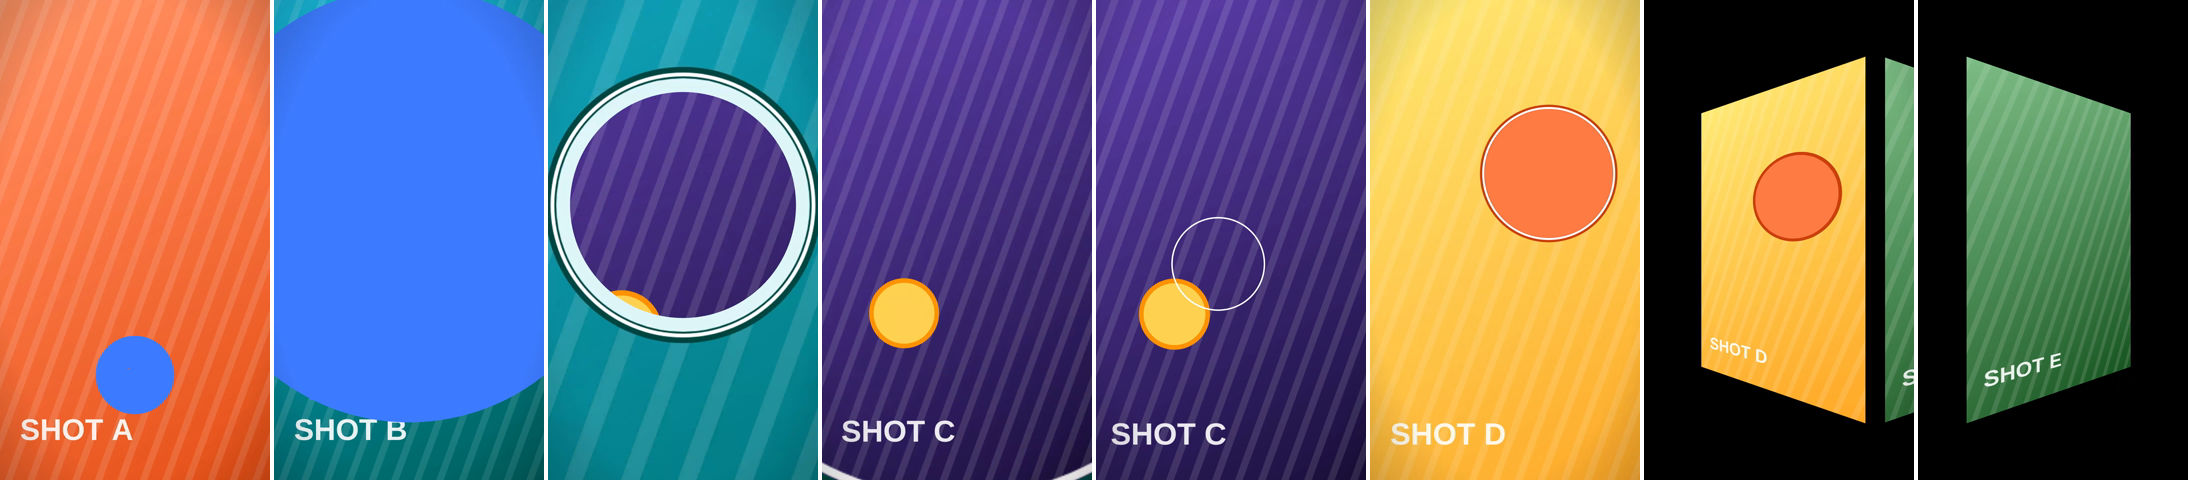
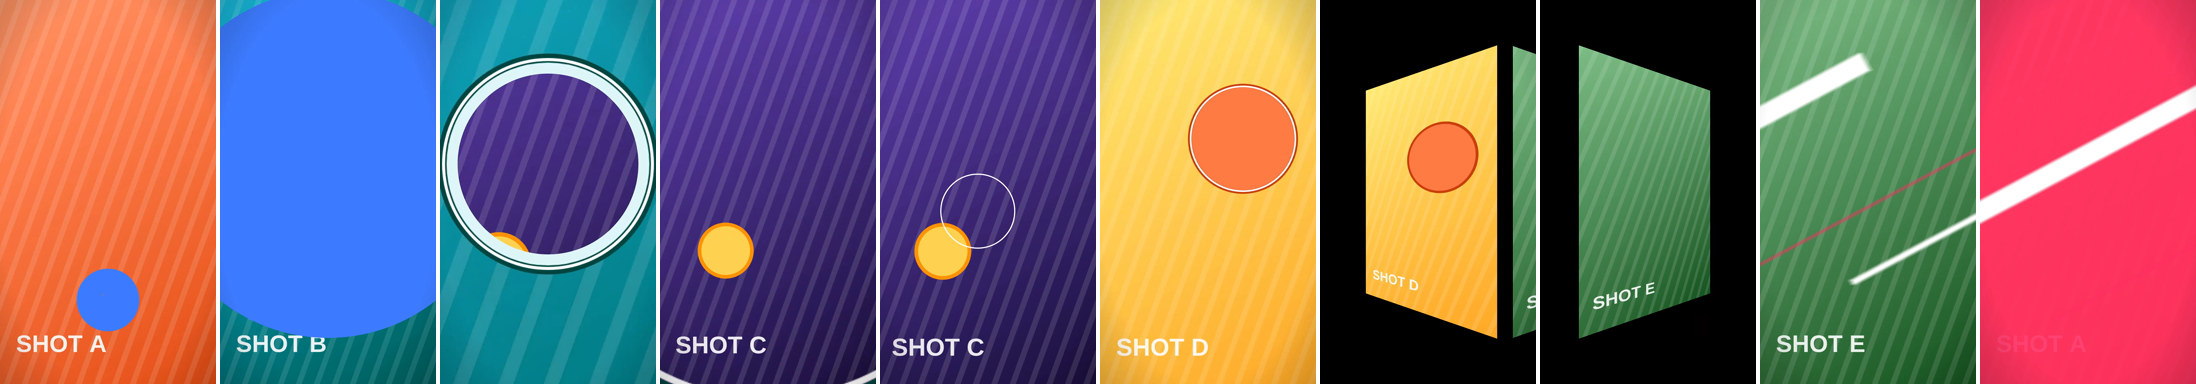
feat(skill): 플래시 전환(transition-flash-streak) 추가
빠른 사선 선 4가닥 + 브랜드 색 번쩍임(6프레임)으로 컷. 엔진 3.0.7 렌더로 값 확인,
samples/transitions 11초로 갱신, 갤러리 항목·전환 표 반영.

Claude-Session: https://claude.ai/code/session_01YK5oS4z5UFzZ1MLrykh59R

diff --git a/plugin/skills/admaker/gallery/prompts/transitions-four-ways.md b/plugin/skills/admaker/gallery/prompts/transitions-four-ways.md
@@ -1,10 +1,10 @@
-# 소재 5컷을 잇는 전환 4종
+# 소재 컷을 잇는 전환 5종
 
 - **카테고리:** transition
-- **길이·비율:** 9초, 9:16, 30fps
+- **길이·비율:** 11초, 9:16, 30fps
 - **엔진:** @admaker/engine 3.0.7
-- **샷 카드:** `transition-cover-flood`, `transition-zoom-through`, `transition-match-cut`, `transition-footage-card`
-- **기법:** cover, zoom-through, match-cut, dimension, keyframes, mask-reveal
+- **샷 카드:** `transition-cover-flood`, `transition-zoom-through`, `transition-match-cut`, `transition-footage-card`, `transition-flash-streak`
+- **기법:** cover, zoom-through, match-cut, dimension, keyframes, mask-reveal, swipe, flash
 - **앱 불러오기:** unverified
 
 ![미리보기](https://github.com/kingsae1/claude-admaker-skills/blob/main/samples/transitions/transitions_sample.gif)
@@ -12,12 +12,12 @@
 ## Prompt
 
 ```text
-A 9-second 9:16 reel that joins five footage clips with four different transitions, all built inside the graphic language and never as crossfades. 1) Cover: a small accent dot near the bottom grows into a circle that floods the frame, the footage swaps under it, and the circle shrinks into the round window of the next clip. 2) Zoom-through: the camera pushes into that window while the next clip opens inside it and fills the frame. 3) Match cut: the frame pushes left with motion blur at the cut, and a white ring around the yellow circle lands exactly on the orange circle of the next clip. 4) Dimension shift: the clip shrinks into a tilted card and slides away while the next card swings in and flattens to full frame. Keep the footage at full clarity, no dim or haze.
+An 11-second 9:16 reel that joins six footage cuts with five different transitions, all built inside the graphic language and never as crossfades. 1) Cover: a small accent dot near the bottom grows into a circle that floods the frame, the footage swaps under it, and the circle shrinks into the round window of the next clip. 2) Zoom-through: the camera pushes into that window while the next clip opens inside it and fills the frame. 3) Match cut: the frame pushes left with motion blur at the cut, and a white ring around the yellow circle lands exactly on the orange circle of the next clip. 4) Dimension shift: the clip shrinks into a tilted card and slides away while the next card swings in and flattens to full frame. 5) Flash: four fast diagonal streaks in white and brand pink cross the frame, and as the last thick one passes the screen flashes pink for six frames while the footage cuts. Keep the footage at full clarity, no dim or haze.
 ```
 
 ## 결과에서 볼 것
 
-커버는 컷 앞뒤 2프레임만 꽉 찬 단색, 줌 스루는 구멍이 늘 창 테두리 안쪽, 매치 컷은 컷 순간 링과 주황 원이 같은 픽셀, 카드 뒤는 브랜드 배경색.
+커버는 컷 앞뒤 2프레임만 꽉 찬 단색, 줌 스루는 구멍이 늘 창 테두리 안쪽, 매치 컷은 컷 순간 링과 주황 원이 같은 픽셀, 카드 뒤는 브랜드 배경색, 플래시는 꽉 찬 색이 0.2초 안.
 
 ## 다시 만들기
 

diff --git a/plugin/skills/admaker/references/shots/transition-flash-streak.md b/plugin/skills/admaker/references/shots/transition-flash-streak.md
@@ -1,0 +1,38 @@
+---
+name: transition-flash-streak
+한 줄: 빠른 선 몇 가닥이 사선으로 화면을 가로지르고, 마지막 선이 지나가는 순간 화면이 브랜드 색으로 번쩍이며 소재가 바뀜
+슬롯: 전환 (훅·드롭)
+에너지: 최고
+길이: 0.3–0.4초 (선 0.18초 × 시차 + 번쩍임 6프레임)
+엔진: Shape rectangle keyframes(x + motionBlur), 번쩍임 Shape opacity keyframes, `style.blendMode`. `templates/shots/transition-flash-streak.mjs`
+검증: 엔진 3.0.7 렌더 하니스(Preview 스틸 + Exporter mp4), `samples/transitions` 9.5초
+---
+
+## 의도
+플래시 전환입니다. 스와이프(선이 화면 앞을 지나감)와 커버(화면을 덮음)를 아주 짧게 합친 것으로, 음악 드롭이나 훅 직후 에너지를 한 번에 올립니다. 번쩍이는 색이 브랜드 색이라 "흰 섬광"보다 브랜드가 남습니다.
+
+## 동작 핵심
+- 선 4가닥(굵기 14·30·8·64px, 마지막이 가장 굵음), 기울기 −28°, 각자 0.18초에 화면을 가로지름. 2프레임씩 시차, **마지막 선이 화면 가운데를 지나는 순간 = 컷**.
+- 선 색은 흰색과 브랜드 색을 번갈아, 브랜드 색 선은 `blendMode: "add"`로 섞어 어두운 소재에서도 묻히지 않게 합니다. 이동 중 내내 모션 블러(Q14).
+- 번쩍임: 프레임 가득 Shape, 컷 2프레임 전 0 → 컷에 0.9 → 4프레임 뒤 0. 바닥 소재는 최고점에서 바뀝니다.
+- 마지막 굵은 선은 번쩍임 위로 계속 지나가서, 다음 장면 첫 3–4프레임에 잔상이 남습니다.
+
+## 파라미터 표
+| 항목 | 값 | 조절 감각 |
+|---|---|---|
+| sweep | 0.18초 | 0.25초 넘으면 "빠른 선"이 아니라 띠가 지나가는 느낌 |
+| count / gap | 4가닥 / 2프레임 | 6가닥 넘으면 화면이 지저분함 |
+| angle | −28° | 브랜드 그래픽의 사선 각도가 있으면 그 값 |
+| flash | 0.9, 2프레임 올라가고 4프레임 내려감 | 0.6 아래면 번쩍임이 안 읽힘. 꽉 찬 시간은 0.2초 안 |
+| blend | `normal` | `screen`이면 소재가 그 색으로 빛나는 느낌이지만 밝은 소재에서는 거의 안 보임 |
+
+## 사운드
+선마다 아주 짧은 tick 또는 하나의 sharp whoosh, 번쩍임에 impact(드롭이면 드롭 첫 박).
+
+## 알려진 함정
+- 화면 전체 충격(R4)에 셉니다. 광고 하나에 1–2번, 흰색 번쩍임은 쓰지 않습니다(금지 목록에 흔한 항목).
+- 깜빡임에 민감한 시청자가 있으니 번쩍임을 연속 3번 이상 쓰지 않습니다(초당 3회 넘는 섬광 금지).
+- `validate.mjs`가 번쩍임 Shape에 "opacity만 바뀌는 단독 페이드 입장(R6)" △ 경고를 냅니다. 이 카드에서는 의도한 것이니 무시합니다.
+
+## 참조 구현
+`templates/shots/transition-flash-streak.mjs`. `props`: `{ at, color?, angle?, count?, sweep?, gap?, flash?, blend?, dir?, index? }`.

diff --git a/plugin/skills/admaker/references/shots/README.md b/plugin/skills/admaker/references/shots/README.md
@@ -25,6 +25,7 @@
 | [transition-cover-flood](transition-cover-flood.md) | 전환 | 중고 | 0.6–0.7초 | 앞 장면의 점이 원으로 부풀어 화면을 덮고, 다음 장면의 점으로 줄어들며 열림 |
 | [transition-zoom-through](transition-zoom-through.md) | 전환 | 중고 | 0.6–0.8초 | 소재 속 둥근 물체로 다가가면 그 안이 다음 소재로 열림 (시그니처 샷 후보) |
 | [transition-match-cut](transition-match-cut.md) | 전환 | 중 | 컷 ±0.2초 | 컷 양쪽 움직임 방향을 맞추고, 링이 다음 물체 자리에 정확히 착지 |
+| [transition-flash-streak](transition-flash-streak.md) | 전환 | 최고 | 0.3–0.4초 | 빠른 사선 몇 가닥이 지나가고 화면이 브랜드 색으로 번쩍이며 컷 (훅·드롭) |
 | [transition-footage-card](transition-footage-card.md) | 전환 | 중 | 0.9–1.1초 | 소재가 카드로 줄며 기울어 빠지고, 다음 소재 카드가 정면으로 펴짐 (2D ↔ 2.5D) |
 
 ### 전환 카드 고르는 법
@@ -34,6 +35,7 @@
 | 기법 | 쓰는 것 | 언제 |
 |---|---|---|
 | 스와이프(닦아내기) | `beat-montage-wipe`의 사선 띠, 마스크 `wipe`·`angleWipe`, 큰 글자·물체가 화면 앞을 지나가게 | 빠른 나열, 인트로·엔딩 타이틀 |
+| 플래시(스와이프 + 커버) | `transition-flash-streak` | 드롭, 훅 직후. 화면 전체 충격(R4)에 셈 |
 | 커버(덮기) | `transition-cover-flood` | 장면 성격이 바뀔 때, 화면 속 점이 있을 때 |
 | 매치 컷 | `transition-match-cut`, 생성 소재면 첫·끝 프레임을 맞춰 생성(`footage-gen.md`) | 비슷한 모양·움직임이 양쪽에 있을 때 |
 | 차원 이동(2D↔3D) | `transition-footage-card`, `hero-tilt-push`, three 어댑터(`three.md`) | 여러 소재를 넘겨 보여 줄 때 |
@@ -46,7 +48,7 @@
 
 ## 카드 형식
 
-> `map-*` 2장은 엔진 3.0.5로, `transition-*` 4장은 엔진 3.0.7로 렌더해 확인한 값입니다. 나머지 5장의 값은 shotcraft·opuscar 판례에서 옮긴 **초기값이고, admaker 엔진으로 렌더해 검증하기 전**입니다. 첫 광고를 만들면서 실제 렌더로 확인한 값으로 고치고, 고친 카드에는 `검증: <엔진 버전>`을 frontmatter에 붙입니다.
+> `map-*` 2장은 엔진 3.0.5로, `transition-*` 5장은 엔진 3.0.7로 렌더해 확인한 값입니다. 나머지 5장의 값은 shotcraft·opuscar 판례에서 옮긴 **초기값이고, admaker 엔진으로 렌더해 검증하기 전**입니다. 첫 광고를 만들면서 실제 렌더로 확인한 값으로 고치고, 고친 카드에는 `검증: <엔진 버전>`을 frontmatter에 붙입니다.
 
 새 카드는 아래 형식으로 씁니다. 실제로 렌더해 확인한 값만 파라미터 표에 적습니다.
 

diff --git a/samples/transitions/README.md b/samples/transitions/README.md
@@ -1,6 +1,6 @@
-# 전환 샘플: 소재 5컷을 잇는 전환 4종
+# 전환 샘플: 소재 컷을 잇는 전환 5종
 
-1080×1920, 9초, 30fps. `@admaker/engine` 3.0.7 렌더 하니스(Preview 스틸, 브라우저 Exporter mp4)로 렌더했습니다. 바닥 소재는 직접 만든 자리표시 영상(`make-placeholder-footage.cjs`: 그라데이션 + 둥근 물체 + SHOT 라벨)입니다.
+1080×1920, 11초, 30fps. `@admaker/engine` 3.0.7 렌더 하니스(Preview 스틸, 브라우저 Exporter mp4)로 렌더했습니다. 바닥 소재는 직접 만든 자리표시 영상(`make-placeholder-footage.cjs`: 그라데이션 + 둥근 물체 + SHOT 라벨)입니다.
 
 ![미리보기](transitions_sample.gif)
 
@@ -12,6 +12,7 @@
 | 3.3–4.0초 | 공간 전환(줌) | `transition-zoom-through` | 창을 향해 4.6배 다가가며 창 안이 다음 소재로 열림, 흰 링 |
 | 5.2–6.0초 | 매치 컷 | `transition-match-cut` | 왼쪽으로 밀리며 컷, 노란 원을 감싼 링이 다음 소재의 주황 원에 착지 |
 | 7.0–8.0초 | 차원 이동 | `transition-footage-card` | 소재가 카드로 줄며 기울어 빠지고, 다음 소재 카드가 정면으로 펴짐 |
+| 9.3–9.6초 | 플래시 | `transition-flash-streak` | 흰색·분홍 선 4가닥이 사선으로 지나가고 화면이 분홍으로 번쩍이며 컷 |
 
 ## 다시 만들기
 
@@ -32,6 +33,7 @@ node build-project.mjs --out project.import.json && node to-admaker-import.mjs p
 
 - 매치 컷 링이 다음 소재가 밀려 들어오는 0.2초 동안 물체와 어긋났습니다. 컷 순간 위치에 다음 소재의 밀림을 얹고 같은 이징으로 내려앉게 고쳤습니다.
 - 카드 전환 뒤 배경을 Shape(z 1)로 깔았더니 화면이 배경색만 나왔습니다. 렌더 하니스는 뒤 트랙을 위에 그립니다. 배경은 `settings.backgroundColor`로 바꿨습니다.
+- 플래시: 분홍 선이 초록 소재 위에서 묻혀 `blendMode: "add"`로, 번쩍임은 `screen`이 밝은 소재에서 거의 안 보여 기본을 `normal`로 바꿨습니다.
 - 카드가 기울면 x 이동이 덜 보여서 빠지는 쪽 이동을 0.95W → 1.5W로 늘렸습니다.
 
 ## 앱으로 넘길 때

diff --git a/README.md b/README.md
@@ -52,7 +52,7 @@ plugin/skills/admaker/
     └── build.sh
 samples/map/                     지도 샘플 샷 (서울 → 부산 배송, 엔진 3.0.5 렌더)
 samples/gsap-three/              GSAP 타임라인 + three.js 커스텀 씬 샘플 (엔진 3.0.7 렌더)
-samples/transitions/             소재 사이 전환 4종 샘플 (커버·줌 스루·매치 컷·카드, 엔진 3.0.7 렌더)
+samples/transitions/             소재 사이 전환 5종 샘플 (커버·줌 스루·매치 컷·카드·플래시, 엔진 3.0.7 렌더)
 samples/handwriting/             손글씨 샘플 (handwrite_in + strokeDraw, 엔진 3.0.7 렌더)
 plugin/skills/admaker/gallery/   예시 갤러리: data/ads.json + prompts/<slug>.md (예시 영상·프롬프트·쓴 기법)
 ```
@@ -68,6 +68,6 @@ plugin/skills/admaker/gallery/   예시 갤러리: data/ads.json + prompts/<slug
 ## 상태
 
 - 엔진 기준 버전: `@admaker/engine` 3.0.7 (admaker-plugin `455c950`, three 어댑터 + 씬 훅 포함), `@admaker/animation` 2.0.8
-- 렌더 하니스, `motion.mjs`의 입장·룩 스택, `map.mjs`, 지도 샷 카드 2장은 엔진 3.0.5로 렌더해 확인했습니다(`samples/map`). `gsapTimeline`과 three 커스텀 씬은 엔진 3.0.7로 렌더해 확인했습니다(`samples/gsap-three`). 전환 샷 카드 4장도 엔진 3.0.7로 렌더해 확인했습니다(`samples/transitions`). 나머지 샷 카드 5장의 값은 아직 렌더로 검증하지 않았습니다.
+- 렌더 하니스, `motion.mjs`의 입장·룩 스택, `map.mjs`, 지도 샷 카드 2장은 엔진 3.0.5로 렌더해 확인했습니다(`samples/map`). `gsapTimeline`과 three 커스텀 씬은 엔진 3.0.7로 렌더해 확인했습니다(`samples/gsap-three`). 전환 샷 카드 5장도 엔진 3.0.7로 렌더해 확인했습니다(`samples/transitions`). 나머지 샷 카드 5장의 값은 아직 렌더로 검증하지 않았습니다.
 
 라이선스: 비공개 라이선스입니다. 저작권자의 허락 없이 복제·수정·재배포할 수 없습니다([LICENSE](LICENSE)). 외부 출처 부분은 [ATTRIBUTION.md](ATTRIBUTION.md)의 원 라이선스를 따릅니다.

diff --git a/plugin/skills/admaker/references/director.md b/plugin/skills/admaker/references/director.md
@@ -101,7 +101,7 @@
 
 - 서로 다른 카메라 무브 3종 이상(15초 기준). 2D에도 카메라가 있습니다: 푸시, 풀, 패럴랙스, 포커스 이동, 프레임 속 프레임.
 - **시그니처 샷 1개.** 원테이크, 스케일 리빌, 매체로 만든 전환.
-- **전환은 그래픽 언어 안에서**(와이프, 마스크, 공유 요소 모핑). 기본 크로스페이드는 피합니다. 기법 6가지(스와이프, 커버, 매치 컷, 차원 이동, 몰핑, 공간 전환)와 카드는 `shots/README.md` "전환 카드 고르는 법".
+- **전환은 그래픽 언어 안에서**(와이프, 마스크, 공유 요소 모핑). 기본 크로스페이드는 피합니다. 기법 6가지(스와이프, 커버, 매치 컷, 차원 이동, 몰핑, 공간 전환)와 플래시와 카드는 `shots/README.md` "전환 카드 고르는 법".
 - **앞에 있는 것이 전환이 된다.** 타이틀·로고·물체가 카메라 쪽으로 오거나 화면을 덮고, 다음 장면은 이미 그 아래에서 기다립니다(`transition-cover-flood`, `transition-zoom-through`).
 - **한 요소가 컷을 건너 이야기를 들고 간다.** 컷마다 "이어받는 요소"(점, 링, 색 면, 제품)를 정하고, 컷 양쪽에서 같은 픽셀 자리·크기에 착지시킵니다(`transition-match-cut`). 착지 좌표는 트리트먼트 샷 리스트에 px로 적습니다.
 - **하드컷은 맞을 때만.** 크기·방향·주제 중 하나 이상이 컷 양쪽에서 맞으면 하드컷, 아니면 위 전환 중 하나로 잇습니다. 비트 몽타주의 박 컷은 예외입니다.

diff --git a/plugin/skills/admaker/gallery/README.md b/plugin/skills/admaker/gallery/README.md
@@ -29,7 +29,7 @@
 | `engine` | 렌더한 `@admaker/engine` 버전 |
 | `footage` | `user`(사용자 소재 자리) · `generated`(앱 AI 생성) · `placeholder`(자리표시) |
 | `shots` | 쓴 샷 카드 이름 (`references/shots/`) |
-| `techniques` | 기법 태그: `swipe` `cover` `match-cut` `dimension` `morph` `zoom-through` `mask-reveal` `keyframes` `gsapTimeline` `three` `handwriting` `strokeDraw` `map` `countUp` |
+| `techniques` | 기법 태그: `swipe` `flash` `cover` `match-cut` `dimension` `morph` `zoom-through` `mask-reveal` `keyframes` `gsapTimeline` `three` `handwriting` `strokeDraw` `map` `countUp` |
 | `prompt` | 요청 프롬프트 전문 (영문) |
 | `prompt_file` | `prompts/<slug>.md` |
 | `preview` | 결과 gif (저장소 경로) |

diff --git a/plugin/skills/admaker/templates/TREATMENT.md b/plugin/skills/admaker/templates/TREATMENT.md
@@ -47,7 +47,7 @@
 |---|---|---|---|---|---|---|---|---|
 | 1 | 훅 | | | | | | | |
 
-- 나가는 방식: 하드컷 / 스와이프 / 커버 / 매치 컷 / 차원 이동 / 몰핑 / 줌 스루 중 하나(`references/shots/README.md` 전환 카드). 하드컷은 크기·방향·주제 중 하나가 맞을 때만.
+- 나가는 방식: 하드컷 / 스와이프 / 플래시 / 커버 / 매치 컷 / 차원 이동 / 몰핑 / 줌 스루 중 하나(`references/shots/README.md` 전환 카드). 하드컷은 크기·방향·주제 중 하나가 맞을 때만.
 - 이어받는 요소: 다음 샷으로 넘어가는 것과 착지 자리. 예: "CTA 점 (540, 1500) 36px → 창 (540, 820) 420px".
 
 ## 바닥 소재 계획 (`references/footage-gen.md`)
